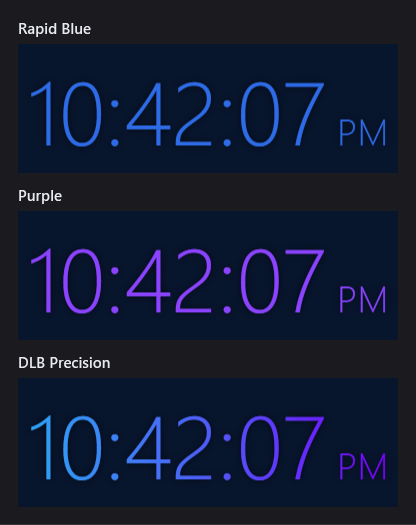
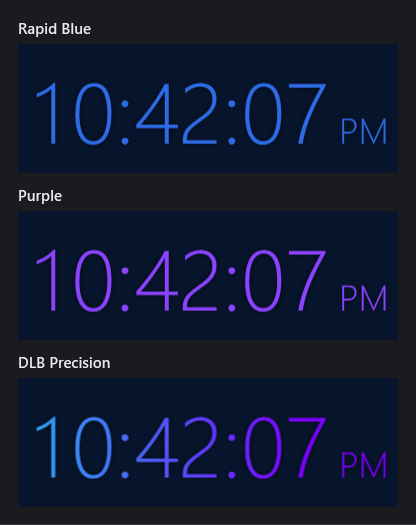
DLB Precision: more purple, gradient fitted to the text; fixed-width digits
- The DLB gradient reaches solid violet three quarters of the way across and
  holds it, and is sized to the text actually shown, so AM/PM always lands on
  the purple end (it was sized to the widest reading, so most hours never
  reached it).
- Tabular digits: Segoe UI Light's "1" is narrower than the other digits, so
  the centered readout slid sideways whenever a 1 came or went in the time.
- Round the reserved readout width up to whole pixels so layout rounding
  can't push the widest reading past it.

diff --git a/ChevyClock.cs b/ChevyClock.cs
@@ -60,7 +60,7 @@ namespace ChevyClock
         {
             public string Key, Name;
             public Color Edge;                   // tint of the hover outline
-            public Func<double, Brush> Fill;     // digit brush, given the reserved readout width
+            public Func<double, Brush> Fill;     // digit brush, given the width of the text it paints
         }
 
         static readonly Theme[] Themes =
@@ -77,8 +77,9 @@ namespace ChevyClock
             return b;
         }
 
-        // One continuous sweep across the reserved readout width: a given position keeps its color
-        // as the digits change, and AM/PM continues the sweep instead of restarting it.
+        // One continuous sweep from the first digit to the end of AM/PM, with the last quarter solid
+        // violet. Absolute, not relative, mapping: AM/PM is a separate run, and a relative brush
+        // would restart the sweep on it.
         static Brush DlbGradient(double width)
         {
             LinearGradientBrush b = new LinearGradientBrush();
@@ -86,7 +87,8 @@ namespace ChevyClock
             b.StartPoint = new Point(0, 0);
             b.EndPoint = new Point(width, 0);
             b.GradientStops.Add(new GradientStop(DlbSky, 0.0));
-            b.GradientStops.Add(new GradientStop(DlbBlue, 0.44));
+            b.GradientStops.Add(new GradientStop(DlbBlue, 0.30));
+            b.GradientStops.Add(new GradientStop(DlbViolet, 0.75));
             b.GradientStops.Add(new GradientStop(DlbViolet, 1.0));
             b.Freeze();
             return b;
@@ -116,7 +118,7 @@ namespace ChevyClock
         MenuItem lockItem, startupItem, colorItem;
         Theme theme = Themes[0];
         Brush hoverEdge = Brushes.Transparent;
-        double readoutWidth;                 // width reserved for the widest reading; the gradient spans it
+        double readoutWidth;                 // width reserved for the widest reading
         double aspect = 3.0;                 // width : height of the readout, held while resizing
         // "Home" is where the user last put the clock. Only a user action (drag, edge resize,
         // wheel, menu) changes it. Windows shoving the window around when a monitor drops out,
@@ -164,6 +166,9 @@ namespace ChevyClock
             text.FontFamily = new FontFamily("Segoe UI");
             text.FontWeight = FontWeights.Light;
             text.FontSize = 100;
+            // Segoe UI Light's default "1" is narrower than the other digits, so the centered
+            // readout slid sideways whenever a 1 came or went. Tabular figures are all one width.
+            Typography.SetNumeralAlignment(text, FontNumeralAlignment.Tabular);
             text.Effect = new DropShadowEffect
             {
                 Color = Colors.Black,
@@ -177,8 +182,9 @@ namespace ChevyClock
             text.Inlines.Add(ampmRun);
 
             // Reserve the width of the widest possible reading so the Viewbox scale never changes
-            // -- otherwise the digits would jump in size at 10:00 and 1:00. Segoe UI digits are
-            // tabular, but "AM" and "PM" are not the same width, so measure both.
+            // -- otherwise the digits would jump in size at 10:00 and 1:00. With tabular figures
+            // every two-digit hour reads the same width, but "AM" is wider than "PM", so measure
+            // both. Layout rounding later rounds the text up to whole pixels; reserve that too.
             Size widest = new Size(0, 0);
             foreach (string half in new[] { " AM", " PM" })
             {
@@ -187,13 +193,14 @@ namespace ChevyClock
                 widest = new Size(Math.Max(widest.Width, text.DesiredSize.Width),
                                   Math.Max(widest.Height, text.DesiredSize.Height));
             }
+            widest = new Size(Math.Ceiling(widest.Width), Math.Ceiling(widest.Height));
             readoutWidth = widest.Width;
 
-            // Fill the reserved width and center the text within it, so a gradient laid across
-            // that width stays put while the digits change.
-            text.HorizontalAlignment = HorizontalAlignment.Stretch;
-            text.TextAlignment = TextAlignment.Center;
+            text.HorizontalAlignment = HorizontalAlignment.Center;
             text.VerticalAlignment = VerticalAlignment.Center;
+            // The digit brush is sized to the text, so a gradient always ends on AM/PM. Rebuild it
+            // when the text's width changes: one- vs two-digit hour, AM vs PM.
+            text.SizeChanged += (s, e) => { if (e.WidthChanged) text.Foreground = theme.Fill(TextWidth()); };
             holder.Width = widest.Width;
             holder.Height = widest.Height;
             holder.Children.Add(text);
@@ -295,10 +302,14 @@ namespace ChevyClock
             if (locked) frame.BorderBrush = Brushes.Transparent;
         }
 
+        // Before the first layout the text has no width yet; the reserved width stands in until
+        // SizeChanged supplies the real one.
+        double TextWidth() { return text.ActualWidth > 0 ? text.ActualWidth : readoutWidth; }
+
         void ApplyTheme(Theme t)
         {
             theme = t;
-            text.Foreground = t.Fill(readoutWidth);
+            text.Foreground = t.Fill(TextWidth());
             hoverEdge = Solid(Color.FromArgb(0x70, t.Edge.R, t.Edge.G, t.Edge.B));
             if (IsMouseOver && !locked) frame.BorderBrush = hoverEdge;
             // Set every item explicitly: clicking a checkable item toggles it, which would otherwise

diff --git a/README.md b/README.md
@@ -24,7 +24,7 @@ Right-click → **Color** to switch. The choice is remembered.
 | --- | --- |
 | Rapid Blue | `#2E6BE6` |
 | Purple | `#8B43FF`, the violet from the [DLB Precision](https://www.dlbprecision.com) logo |
-| DLB Precision | `#2DA4F4` → `#4A66F7` → `#7B00FF`, the dlbprecision.com gradient, swept left to right across the whole readout |
+| DLB Precision | `#2DA4F4` → `#4A66F7` → `#7B00FF`, the dlbprecision.com gradient, swept from the first digit to the end of AM/PM, with the last quarter in solid violet |
 
 ## Download
 
